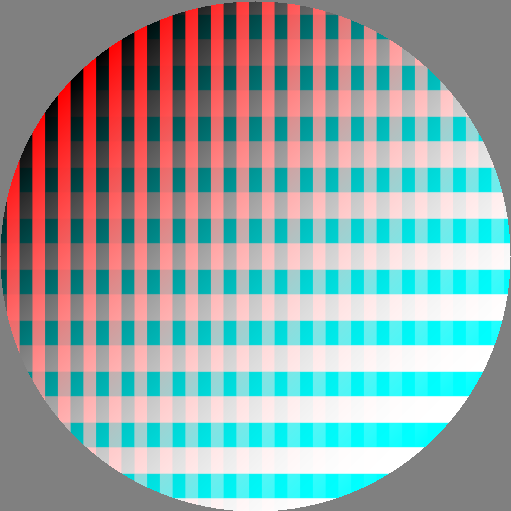
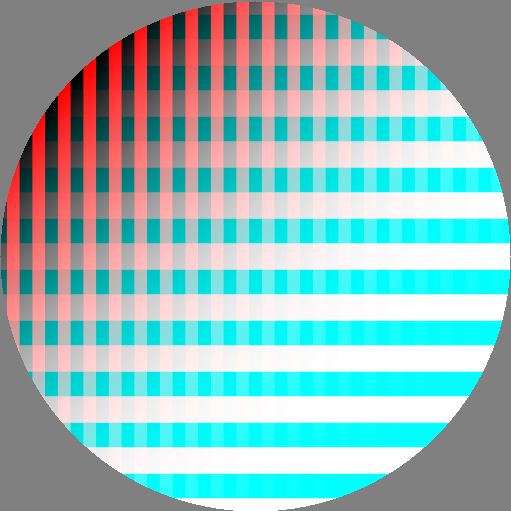
Collapse Spot2 and Gradation2 back into Spot and Gradation.
Re-render images for doc.

diff --git a/Generators.h b/Generators.h
@@ -11,6 +11,56 @@
 
 class Generator : public Texture {};
 
+//~~~~~~~~~~~~~~~~~~~~~~~~~~~~~~~~~~~~~~~~~~~~~~~~~~~~~~~~~~~~~~~~~~~~~~~~~~~~~~
+
+//    // Gradation between two textures with arbitrary position, width, and
+//    // orientation. The arguments are two points, defining a line segment, and a
+//    // texture for each end. The gradation occurs along the line segment, a given
+//    // location on the texture is projected onto that line to determine its mix of
+//    // the two input textures.
+//    class Gradation : public Generator
+//    {
+//    public:
+//            Gradation(Vec2 point_0, const Texture& texture_0,
+//                      Vec2 point_1, const Texture& texture_1) :
+//                texture0(texture_0),
+//                texture1(texture_1),
+//            origin(point_0),
+//            distance((point_1 - point_0).length()),
+//            basis((point_1 - point_0) / distance) {}
+//        // BACKWARD_COMPATIBILITY for version before inherent matting.
+//        Gradation(Vec2 a, Color b, Vec2 c, Color d)
+//          : Gradation(a, disposableUniform(b), c, disposableUniform(d)){}
+//        Color getColor(Vec2 position) const override
+//        {
+//            // TODO isn't this handled inside interpolate these days?
+//            if (distance == 0)
+//            {
+//                return interpolate(0.5,
+//                                   texture0.getColor(position),
+//                                   texture1.getColor(position));
+//            }
+//            else
+//            {
+//                Vec2 offset = position - origin;
+//                float projection = basis.dot(offset);
+//                float relative = remapIntervalClip(projection, 0, distance, 0, 1);
+//                return interpolate(sinusoid(relative),
+//                                   texture0.getColor(position),
+//                                   texture1.getColor(position));
+//            }
+//        }
+//    private:
+//        const Vec2 origin;
+//        const float distance;
+//        const Vec2 basis;
+//        const Texture& texture0;
+//        const Texture& texture1;
+//    };
+
+
+// TODO EXPERIMENT -- deGamma() for pattern generators? -- May 18, 2020
+
 // Gradation between two textures with arbitrary position, width, and
 // orientation. The arguments are two points, defining a line segment, and a
 // texture for each end. The gradation occurs along the line segment, a given
@@ -43,56 +93,6 @@ public:
             Vec2 offset = position - origin;
             float projection = basis.dot(offset);
             float relative = remapIntervalClip(projection, 0, distance, 0, 1);
-            return interpolate(sinusoid(relative),
-                               texture0.getColor(position),
-                               texture1.getColor(position));
-        }
-    }
-private:
-    const Vec2 origin;
-    const float distance;
-    const Vec2 basis;
-    const Texture& texture0;
-    const Texture& texture1;
-};
-
-//~~~~~~~~~~~~~~~~~~~~~~~~~~~~~~~~~~~~~~~~~~~~~~~~~~~~~~~~~~~~~~~~~~~~~~~~~~~~~~
-
-// TODO EXPERIMENT -- deGamma() for pattern generators? -- May 18, 2020
-
-// Gradation between two textures with arbitrary position, width, and
-// orientation. The arguments are two points, defining a line segment, and a
-// texture for each end. The gradation occurs along the line segment, a given
-// location on the texture is projected onto that line to determine its mix of
-// the two input textures.
-class Gradation2 : public Generator
-{
-public:
-        Gradation2(Vec2 point_0, const Texture& texture_0,
-                  Vec2 point_1, const Texture& texture_1) :
-            texture0(texture_0),
-            texture1(texture_1),
-        origin(point_0),
-        distance((point_1 - point_0).length()),
-        basis((point_1 - point_0) / distance) {}
-    // BACKWARD_COMPATIBILITY for version before inherent matting.
-    Gradation2(Vec2 a, Color b, Vec2 c, Color d)
-      : Gradation2(a, disposableUniform(b), c, disposableUniform(d)){}
-    Color getColor(Vec2 position) const override
-    {
-        // TODO isn't this handled inside interpolate these days?
-        if (distance == 0)
-        {
-            return interpolate(0.5,
-                               texture0.getColor(position),
-                               texture1.getColor(position));
-        }
-        else
-        {
-            Vec2 offset = position - origin;
-            float projection = basis.dot(offset);
-            float relative = remapIntervalClip(projection, 0, distance, 0, 1);
-//            return interpolate(sinusoid(relative),
             return interpolate(deGamma(sinusoid(relative)),
                                texture0.getColor(position),
                                texture1.getColor(position));
@@ -106,8 +106,50 @@ private:
     const Texture& texture1;
 };
 
-//~~~~~~~~~~~~~~~~~~~~~~~~~~~~~~~~~~~~~~~~~~~~~~~~~~~~~~~~~~~~~~~~~~~~~~~~~~~~~~
+//    // A circular spot, centered at a given point, with two radii. Within an inner
+//    // radius it is colored according to one input texture. Beyond an outer radius
+//    // it is uniformly colored according a second input texture. Between the two
+//    // radii, there is a sinusoid transition from one texture to the other.
+//    // (Reverses radii if they are out of order.)
+//    class Spot : public Generator
+//    {
+//    public:
+//        Spot(Vec2 center_,
+//             float inner_radius_, const Texture& inner_texture_,
+//             float outer_radius_, const Texture& outer_texture_)
+//          : center(center_),
+//            inner_radius(std::min(inner_radius_, outer_radius_)),
+//            inner_texture(inner_texture_),
+//            outer_radius(std::max(inner_radius_, outer_radius_)),
+//            outer_texture(outer_texture_)
+//        {
+//            assert(inner_radius >= 0);
+//            assert(outer_radius >= 0);
+//            assert(outer_radius >= inner_radius);
+//        }
+//        // BACKWARD_COMPATIBILITY for version before inherent matting.
+//        Spot(Vec2 a, float b, Color c, float d, Color e)
+//          : Spot(a, b, disposableUniform(c), d, disposableUniform(e)){}
+//        Color getColor(Vec2 position) const override
+//        {
+//            // Distance from sample position to spot center.
+//            float d = (position - center).length();
+//            // Fraction for interpolation: 0 inside, 1 outside, ramp between.
+//            float f = remapIntervalClip(d, inner_radius, outer_radius, 0, 1);
+//            // Sinusoidal interpolation between inner and outer colors.
+//            return interpolate(sinusoid(f),
+//                               inner_texture.getColor(position),
+//                               outer_texture.getColor(position));
+//        }
+//    private:
+//        const Vec2 center;
+//        const float inner_radius;
+//        const float outer_radius;
+//        const Texture& inner_texture;
+//        const Texture& outer_texture;
+//    };
 
+// TODO EXPERIMENT -- deGamma() for pattern generators? -- May 18, 2020
 
 // A circular spot, centered at a given point, with two radii. Within an inner
 // radius it is colored according to one input texture. Beyond an outer radius
@@ -140,57 +182,7 @@ public:
         // Fraction for interpolation: 0 inside, 1 outside, ramp between.
         float f = remapIntervalClip(d, inner_radius, outer_radius, 0, 1);
         // Sinusoidal interpolation between inner and outer colors.
-        return interpolate(sinusoid(f),
-                           inner_texture.getColor(position),
-                           outer_texture.getColor(position));
-    }
-private:
-    const Vec2 center;
-    const float inner_radius;
-    const float outer_radius;
-    const Texture& inner_texture;
-    const Texture& outer_texture;
-};
-
-//~~~~~~~~~~~~~~~~~~~~~~~~~~~~~~~~~~~~~~~~~~~~~~~~~~~~~~~~~~~~~~~~~~~~~~~~~~~~~~
-
-// TODO EXPERIMENT -- deGamma() for pattern generators? -- May 18, 2020
-
-// A circular spot, centered at a given point, with two radii. Within an inner
-// radius it is colored according to one input texture. Beyond an outer radius
-// it is uniformly colored according a second input texture. Between the two
-// radii, there is a sinusoid transition from one texture to the other.
-// (Reverses radii if they are out of order.)
-class Spot2 : public Generator
-{
-public:
-    Spot2(Vec2 center_,
-         float inner_radius_, const Texture& inner_texture_,
-         float outer_radius_, const Texture& outer_texture_)
-      : center(center_),
-        inner_radius(std::min(inner_radius_, outer_radius_)),
-        inner_texture(inner_texture_),
-        outer_radius(std::max(inner_radius_, outer_radius_)),
-        outer_texture(outer_texture_)
-    {
-        assert(inner_radius >= 0);
-        assert(outer_radius >= 0);
-        assert(outer_radius >= inner_radius);
-    }
-    // BACKWARD_COMPATIBILITY for version before inherent matting.
-    Spot2(Vec2 a, float b, Color c, float d, Color e)
-      : Spot2(a, b, disposableUniform(c), d, disposableUniform(e)){}
-    Color getColor(Vec2 position) const override
-    {
-        // Distance from sample position to spot center.
-        float d = (position - center).length();
-        // Fraction for interpolation: 0 inside, 1 outside, ramp between.
-        float f = remapIntervalClip(d, inner_radius, outer_radius, 0, 1);
-        // Sinusoidal interpolation between inner and outer colors.
-        
-//        return interpolate(sinusoid(f),
         return interpolate(deGamma(sinusoid(f)),
-                           
                            inner_texture.getColor(position),
                            outer_texture.getColor(position));
     }

diff --git a/main.cpp b/main.cpp
@@ -1873,53 +1873,53 @@ int main(int argc, const char * argv[])
 
     //- - - - - - - - - - - - - - - - - - - - - - - - - - - - - - - - - - - - -
 
-//    // Inherent matting, part 2, May 17, 2020
-//    std::cout << "May 17, 2020" << std::endl;
-//    std::string path = "/Users/cwr/Desktop/TexSyn_temp/20200517_";
-//
-//    Uniform black(Color(0, 0, 0));
-//    Uniform white(Color(1, 1, 1));
-//    Uniform red(Color(1, 0, 0));
-//    Uniform cyan(Color(0, 1, 1));
-//    Grating white_cyan(Vec2(0, 0.2), white, Vec2(), cyan, 0.1, 0.5);
-//    Grating black_red(Vec2(0.1, 0), black, Vec2(), red, 0.1, 0.5);
-//
-//    Texture::displayAndFile(Spot(Vec2(), 0.2, white_cyan, 0.9, black_red)
-//                            ); // , path + "Spot");
-//    Texture::displayAndFile(Gradation(Vec2(0.7, -0.7), white_cyan,
-//                                      Vec2(-0.7, 0.7), black_red)
-//                            ); // , path + "Gradation");
-//    Texture::displayAndFile(Grating(Vec2(0.1, 0), white_cyan,
-//                                    Vec2(-0.1, 0), black_red,
-//                                    0.2, 0.5)
-//                            ); // , path + "Grating_oops");
-//    Texture::displayAndFile(Grating(Vec2(0.1, -0.2), white_cyan,
-//                                    Vec2(-0.1, 0.2), black_red,
-//                                    0.2, 0.3)
-//                            ); // , path + "Grating");
-//
-//    Texture::waitKey();
+    // Inherent matting, part 2, May 17, 2020
+    std::cout << "May 17, 2020" << std::endl;
+    std::string path = "/Users/cwr/Desktop/TexSyn_temp/20200517_";
+
+    Uniform black(Color(0, 0, 0));
+    Uniform white(Color(1, 1, 1));
+    Uniform red(Color(1, 0, 0));
+    Uniform cyan(Color(0, 1, 1));
+    Grating white_cyan(Vec2(0, 0.2), white, Vec2(), cyan, 0.1, 0.5);
+    Grating black_red(Vec2(0.1, 0), black, Vec2(), red, 0.1, 0.5);
+
+    Texture::displayAndFile(Spot(Vec2(), 0.2, white_cyan, 0.9, black_red)
+                            , path + "Spot");
+    Texture::displayAndFile(Gradation(Vec2(0.7, -0.7), white_cyan,
+                                      Vec2(-0.7, 0.7), black_red)
+                            , path + "Gradation");
+    Texture::displayAndFile(Grating(Vec2(0.1, 0), white_cyan,
+                                    Vec2(-0.1, 0), black_red,
+                                    0.2, 0.5)
+                            , path + "Grating_oops");
+    Texture::displayAndFile(Grating(Vec2(0.1, -0.2), white_cyan,
+                                    Vec2(-0.1, 0.2), black_red,
+                                    0.2, 0.3)
+                            , path + "Grating");
+
+    Texture::waitKey();
 
     //- - - - - - - - - - - - - - - - - - - - - - - - - - - - - - - - - - - - -
 
-    // deGamma() for pattern generators? -- May 18, 2020
-    std::cout << "May 18, 2020" << std::endl;
-    std::string path = "/Users/cwr/Desktop/TexSyn_temp/20200518_";
-    
-    Uniform black(Color(0, 0, 0));
-    Uniform white(Color(1, 1, 1));
-    
-    Texture::diff(Spot (Vec2(), 0.1, white, 1.0, black),
-                  Spot2(Vec2(), 0.1, white, 1.0, black)
-                  , path + "Spot_diff");
-    Texture::diff(Gradation (Vec2(0.6, 0.6), black, Vec2(-0.6, -0.6), white),
-                  Gradation2(Vec2(0.6, 0.6), black, Vec2(-0.6, -0.6), white)
-                  , path + "Gradation_diff");
-    
-    // 11am: definitely looks "better" in that the gray transition seems better
-    //       aligned by the geometry of the transition, middle gray near center
-
-    Texture::waitKey();
+//    // deGamma() for pattern generators? -- May 18, 2020
+//    std::cout << "May 18, 2020" << std::endl;
+//    std::string path = "/Users/cwr/Desktop/TexSyn_temp/20200518_";
+//
+//    Uniform black(Color(0, 0, 0));
+//    Uniform white(Color(1, 1, 1));
+//
+//    Texture::diff(Spot (Vec2(), 0.1, white, 1.0, black),
+//                  Spot2(Vec2(), 0.1, white, 1.0, black)
+//                  , path + "Spot_diff");
+//    Texture::diff(Gradation (Vec2(0.6, 0.6), black, Vec2(-0.6, -0.6), white),
+//                  Gradation2(Vec2(0.6, 0.6), black, Vec2(-0.6, -0.6), white)
+//                  , path + "Gradation_diff");
+//
+//    // 11am: definitely looks "better" in that the gray transition seems better
+//    //       aligned by the geometry of the transition, middle gray near center
+//
+//    Texture::waitKey();
 
     //- - - - - - - - - - - - - - - - - - - - - - - - - - - - - - - - - - - - -
 
